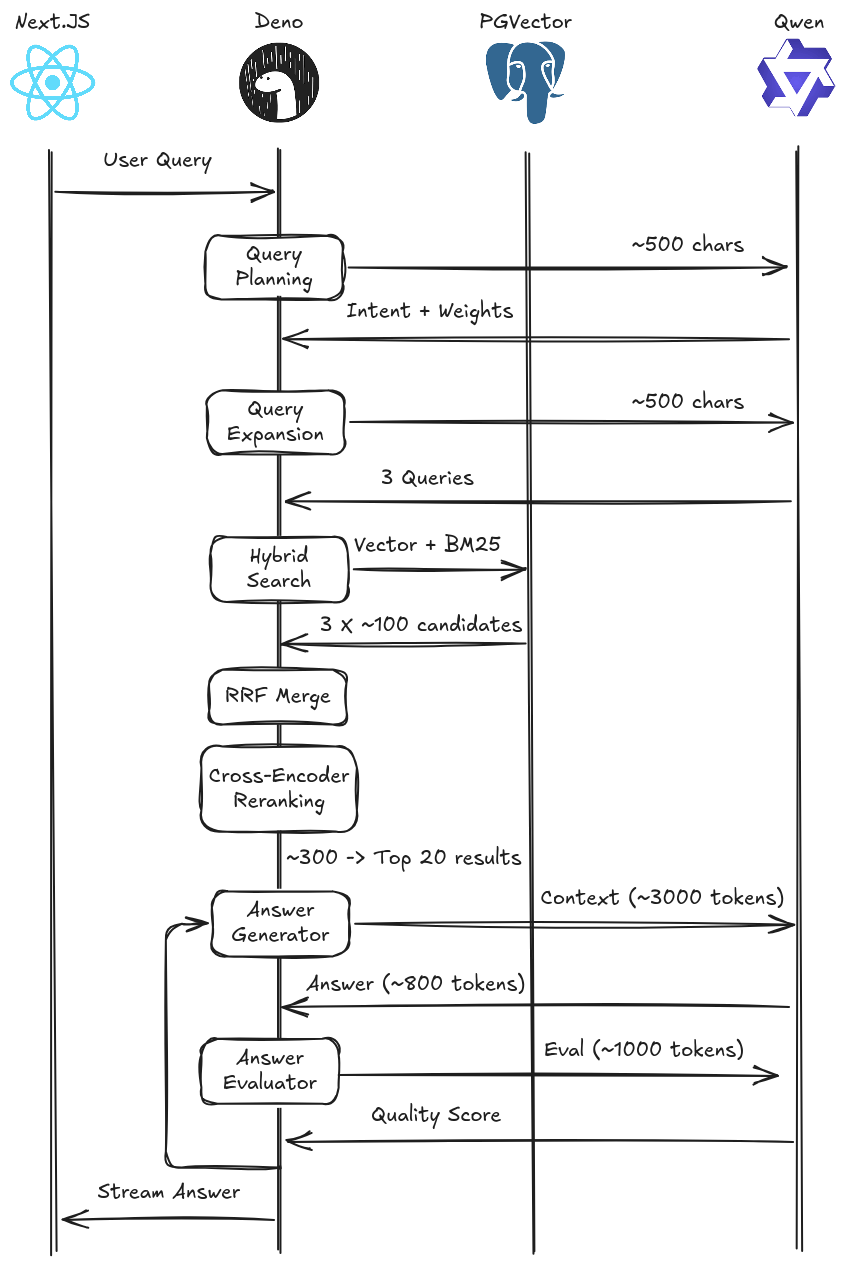
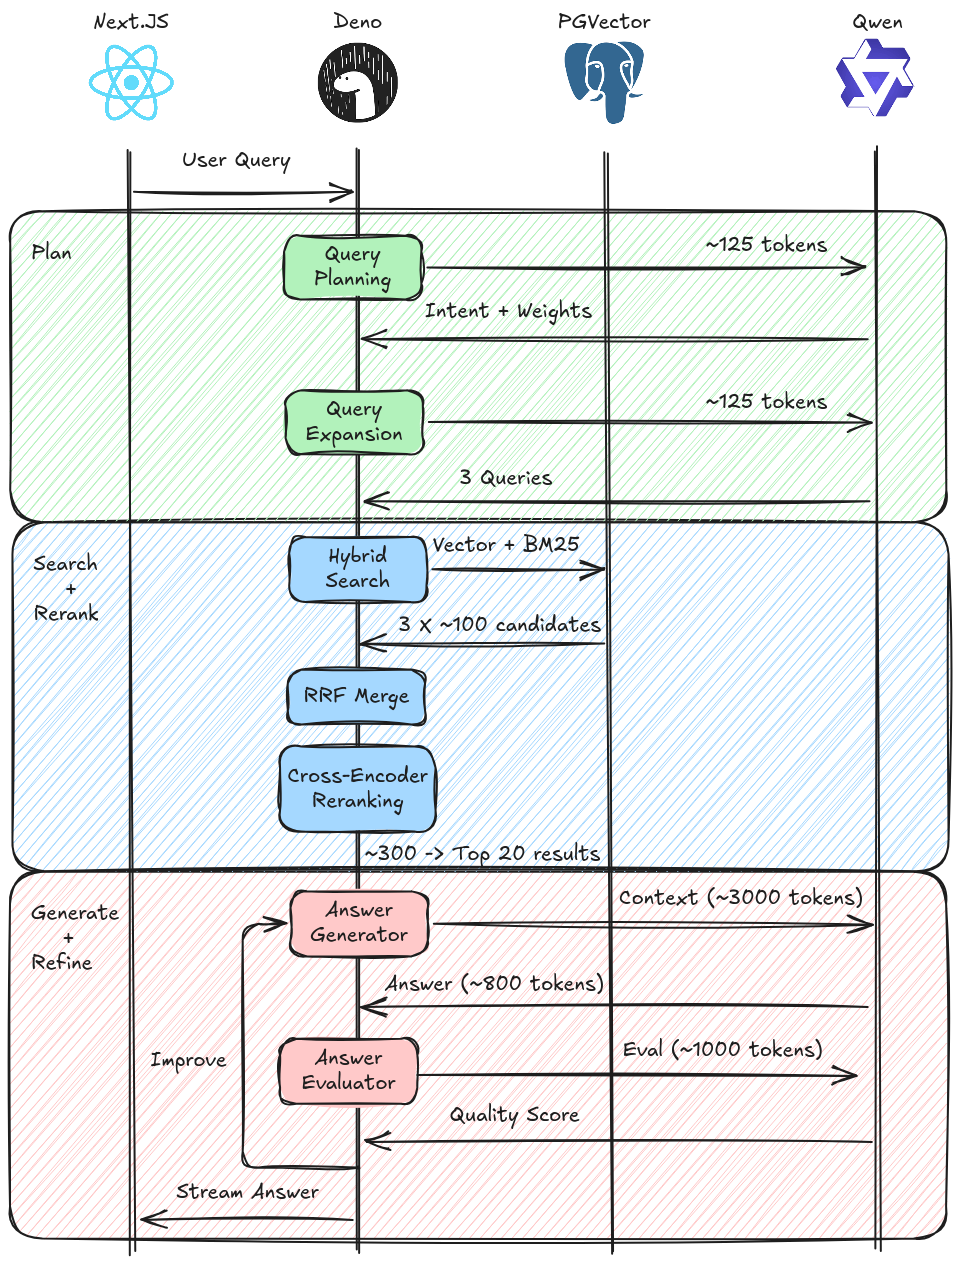
Add evaluation section and comprehensive tech stack reference to README

diff --git a/README.md b/README.md
@@ -4,39 +4,31 @@
   # RAGnosis
 
   > **Agentic AI system for RAG technology intelligence**
+
+  **[🚀 Now Live](https://www.ragnosis.app)**
 </div>
 
-A production RAG system that answers questions about RAG technology itself—combining quantitative metrics from HuggingFace and GitHub with expert knowledge from official documentation. Built to showcase sophisticated RAG patterns that go beyond basic vector search.
+A production RAG system that answers questions about RAG technology itself, combining quantitative metrics from HuggingFace and GitHub with expert knowledge from official documentation. Built to showcase sophisticated RAG patterns that go beyond basic vector search.
 
-**What makes this interesting:** Most RAG tutorials do naive vector search and call it done. This system demonstrates agentic planning, hybrid search, RRF fusion, and cost optimization—techniques you need for production systems.
+**What makes this interesting:** Most RAG tutorials do naive vector search and call it done. This system demonstrates agentic planning, hybrid search, RRF fusion, and cost optimization techniques you need for production systems.
 
 ## Architecture Overview
 
 <div align="center">
-  <img src="docs/architecture-diagram.svg" alt="RAGnosis Architecture" width="100%" />
+  <img src="docs/architecture-diagram.png" alt="RAGnosis Architecture" width="100%" />
 </div>
 
-**Flow:**
-1. **Data Collection** - GitHub Actions scrapes docs, fetches HuggingFace/GitHub metrics
-2. **Embedding Pipeline** - Python processes content and generates vector embeddings
-3. **User Query** - Next.js frontend sends questions to Deno edge function
-4. **Query Planning** - Analyze user intent and route to appropriate sources
-5. **LLM Planning** - Call LLM to generate intent classification and doc_type weights
-6. **Query Expanding** - Generate semantic variations (optional, disabled by default)
-7. **LLM Expansion** - Call LLM to create 2 alternative queries
-8. **Hybrid Search & RRF Merge** - Parallel vector and keyword searches combined via weighted fusion
-9. **Reranking** - Optional cross-encoder refinement (feature-flagged)
-10. **Answer Generation** - Synthesize response with proper citations
-11. **LLM Synthesis** - Call LLM to generate context-aware answer
-12. **Answer Evaluation** - Quality assessment across 4 dimensions
-13. **LLM Evaluation** - Call LLM to score answer quality (relevancy, accuracy, clarity, specificity)
-14. **Streaming Response** - Progressive results sent back to frontend
-
-### Event Flow & Data Volumes
-
-<div align="center">
-  <img src="docs/swimlane-diagram.png" alt="RAGnosis Event Flow" width="100%" />
-</div>
+### Flow:
+**1.** Data Collection - GitHub Actions scrapes docs, fetches HuggingFace/GitHub metrics<br/>
+**2.** Embedding Pipeline - Python processes content and generates vector embeddings<br/>
+**3.** User Query - Next.js frontend sends questions to Deno edge function<br/>
+**4-5.** Query Planning - LLM analyzes user intent and generates doc_type routing weights<br/>
+**6-7.** Query Expansion - LLM creates semantic variations (optional, disabled by default)<br/>
+**8.** Hybrid Search & RRF Merge - Parallel vector and keyword searches combined via weighted fusion<br/>
+**9.** Reranking - Optional cross-encoder refinement (feature-flagged)<br/>
+**10-11.** Answer Generation - LLM synthesizes context-aware response with citations<br/>
+**12-13.** Answer Evaluation - LLM scores quality (relevancy, accuracy, clarity, specificity)<br/>
+**14.** Streaming Response - Progressive results sent back to frontend
 
 ---
 
@@ -70,20 +62,80 @@ A production RAG system that answers questions about RAG technology itself—com
 
 ---
 
-## Tech Stack
+## Event Flow & Data Volumes
 
-| Layer | Technology | Why This Choice |
-|-------|-----------|-----------------|
-| **Frontend** | Next.js + assistant-ui | Streaming UI with thought process visibility, analytics dashboard, source attribution |
-| **Backend** | Deno (Supabase Edge Functions) | Fast cold starts, TypeScript-native, simple deployment |
-| **Database** | PostgreSQL + pgvector | Hybrid search in one DB, no separate vector store needed |
-| **Vector Search** | pgvector HNSW (cosine) | Graph-based index, consistent performance, no tuning needed |
-| **Keyword Search** | PostgreSQL GIN + ts_rank | Native full-text search, combines with vector via CTEs |
-| **LLM** | Ollama qwen2.5:3b / OpenRouter | Query planning & synthesis, auto-detects based on API key |
-| **Embeddings** | Supabase AI (gte-small) | 384-dim, quality/speed balance, serverless |
-| **Fusion** | Reciprocal Rank Fusion (RRF) | Merges vector + keyword results with configurable weights |
-| **Reranking** | Optional Cross-Encoder | Feature-flagged semantic reranking using gte-small |
-| **Data Pipeline** | Python 3.13 + GitHub Actions | Flexible scraping, automated scheduling |
+<div align="center">
+  <img src="docs/swimlane-diagram.png" alt="RAGnosis Event Flow" width="85%" />
+</div>
+
+---
+
+## Tech Stack & Tools
+
+### Core Technologies
+
+| Category | Tools | Purpose |
+|----------|-------|---------|
+| **Languages** | TypeScript, Python 3.13, SQL | Frontend/backend (TS), data pipeline (Python), database (SQL) |
+| **Frontend** | Next.js 16, React 19 | Web application framework |
+| | assistant-ui, Radix UI, Tailwind CSS 3 | Chat interface, components, styling |
+| | Recharts, React Markdown, Lucide React | Analytics charts, markdown rendering, icons |
+| **Backend** | Deno, Supabase Edge Functions | Serverless TypeScript runtime with fast cold starts |
+| **Database** | PostgreSQL, pgvector, Supabase | Vector + relational data in single DB |
+| **Vector Search** | pgvector (HNSW, cosine) | Graph-based vector index, no tuning needed |
+| **Keyword Search** | PostgreSQL (GIN + ts_rank) | Native full-text search |
+| **Search Fusion** | Reciprocal Rank Fusion (RRF) | Merges vector + keyword with configurable weights |
+| **Reranking** | Cross-Encoder (optional) | Feature-flagged semantic reranking |
+
+### AI & ML Stack
+
+| Component | Tools | Details |
+|-----------|-------|---------|
+| **LLM (Local)** | Ollama, qwen2.5:3b-instruct | Query planning & answer synthesis |
+| **LLM (Cloud)** | OpenRouter API | Alternative to local (auto-detects by API key) |
+| **Embeddings** | Supabase AI (gte-small) | 384-dim vectors, quality/speed balance |
+| | sentence-transformers | Python embedding library |
+| **Evaluation** | RAGAS, LangChain, fastembed | Automated quality metrics (faithfulness, relevancy) |
+
+### Data Pipeline
+
+| Component | Tools | Purpose |
+|-----------|-------|---------|
+| **Language** | Python 3.13 | Data processing & embeddings |
+| **Automation** | GitHub Actions | Scheduled scraping & updates |
+| **Web Scraping** | BeautifulSoup4, Feedparser, requests | Doc collection, RSS parsing |
+| **APIs** | HuggingFace Hub, GitHub API, PyTrends | Model metrics, repo data, trends |
+| **Visualization** | Streamlit, Plotly | Data pipeline UI & interactive charts |
+
+### Development Tools
+
+| Tool | Purpose |
+|------|---------|
+| Docker & Docker Compose | Containerization (Ollama, Supabase) |
+| Make | Task automation (setup, pipeline, deploy) |
+| ESLint, TypeScript | Code quality & type safety |
+| python-dotenv | Environment configuration |
+| Git & GitHub | Version control & CI/CD |
+
+
+---
+
+## Evaluation & Quality Assurance
+
+The system includes a comprehensive evaluation framework with **28 curated test questions** across 6 categories (concepts, models, repos, comparisons, implementation, troubleshooting).
+
+**Key Metrics:**
+- **Faithfulness (0.90)** - Answers grounded in sources, minimal hallucination
+- **Answer Relevancy (0.55)** - How directly answers address the question
+- **Entity Accuracy** - Correct entities mentioned in responses
+
+Uses **RAGAS** (Retrieval Augmented Generation Assessment) framework with Ollama for automated quality scoring. Each code change can be validated against the golden dataset to prevent regressions.
+
+**Run evaluation:** `cd evaluation && python evaluate_ragnosis.py` (~2 min for full suite)
+
+See [`evaluation/README.md`](evaluation/README.md) for detailed metrics and tuning guidance.
+
+---
 
 ## Quick Start
 
